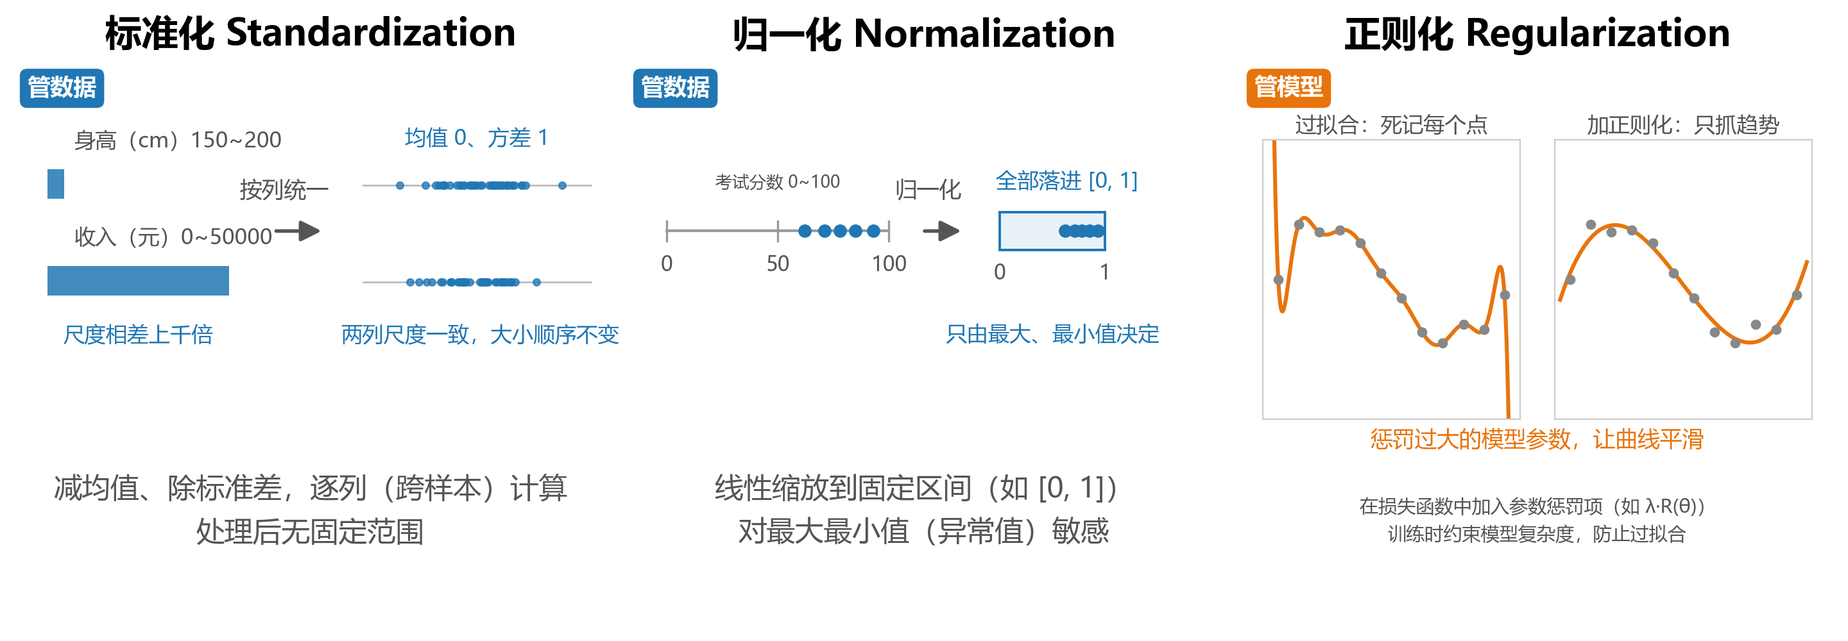
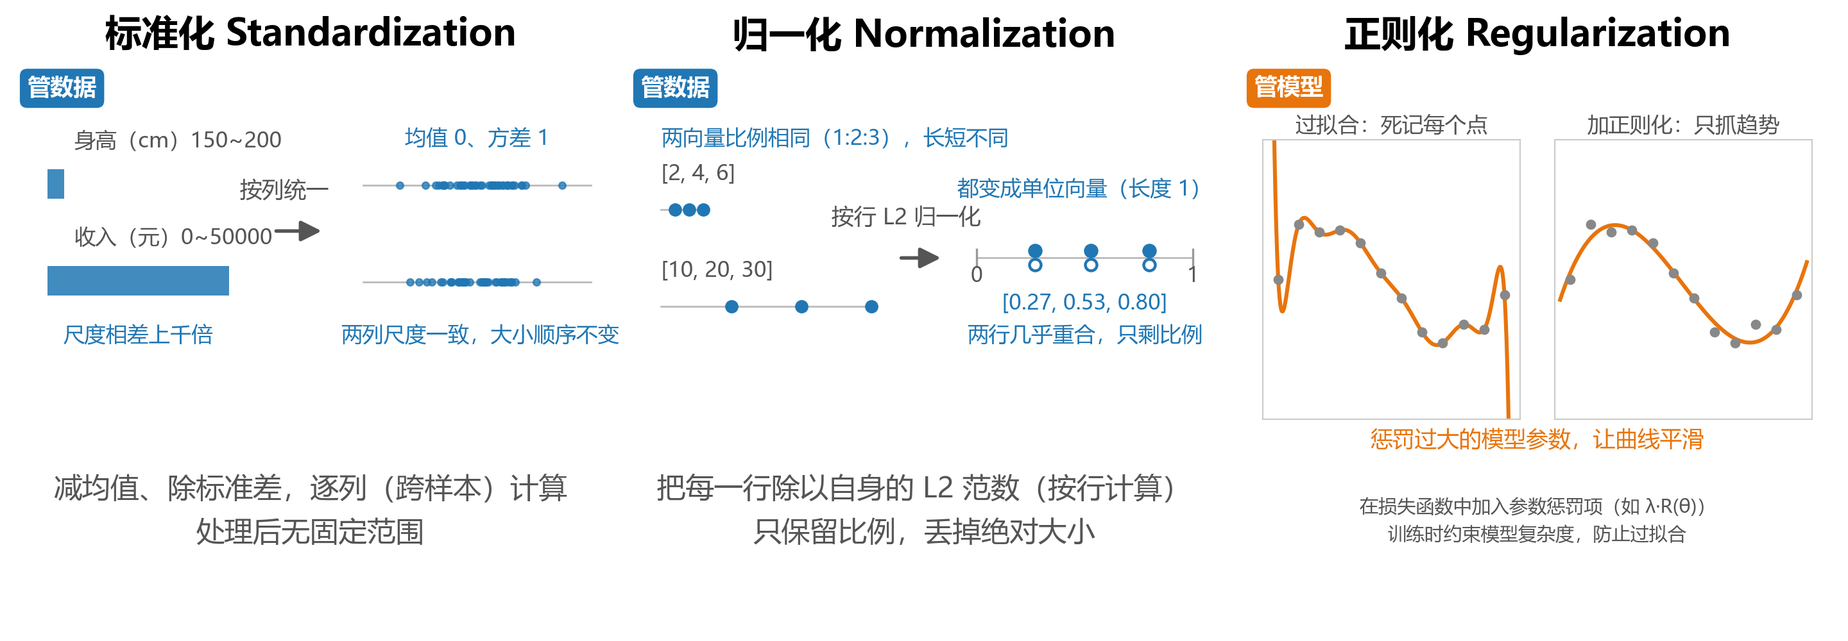
发布第 2 讲学生材料（02-first-workflow）

diff --git a/ml-2026/lessons/02-first-workflow/slides.html b/ml-2026/lessons/02-first-workflow/slides.html
@@ -20,7 +20,7 @@ print(pred[:10])                   # → [1 1 1 1 1 1 1 1 1 1]</code></pre><p><b
     LogisticRegression(
         C=1, max_iter=2000))
 model.fit(X_train, y_train)
-model.score(X_val, y_val)  # 0.9722</code></pre><p class="note"><code>StandardScaler</code> 只按训练集调整每列的中心和尺度，不会把数据变成正态分布。<code>max_iter=2000</code> 是最大迭代次数；参数如何学到将在第 4 章介绍。</p></div><figure class="generated-visual logistic-visual"><img src="assets/logistic-regression-digits-flow-sketch-v1.png" alt="Logistic 回归手写数字示例：训练阶段把 1077 张带标签图片转为 64 个像素特征，标准化后学习十个类别的权重；预测阶段对数字 8 计算 0 到 9 的类别得分并选择最高分，与真实标签比较；验证集 360 个样本中 350 个正确、10 个错误，准确率 97.22%"></figure></div></div></div></section><section class="slide " id="slide-9" aria-label="第9页" hidden><div class="content"><p class="topic">第 2 讲 · 从数据到评估：第一个完整机器学习流程</p><h1>标准化：让特征处在相近的数值尺度</h1><div class="body"><div class="cols"><div><p>一张 8×8 的手写数字包含 64 个像素值。每个固定位置的像素都是一个特征，输入数据共 64 列。</p><p>这些像素都使用 0 至 16 的灰度值，但不同位置的数据分布并不相同。边缘位置通常接近 0，笔画经过的位置变化更明显。</p><p><b>标准化（standardization）</b>根据训练数据分别调整每一列，使不同特征的数值尺度更接近。这样可以减少数值尺度差异对参数更新的影响，使 Logistic 回归的训练过程更稳定。</p></div><div><div class="pixel-demo"><div class="pixel-matrix" role="img" aria-label="由 64 个灰度格组成的 8×8 手写数字 0，第 2 列和第 6 列以不同颜色标出"><span style="--v:0"></span><span class="low-pixel" style="--v:0"></span><span style="--v:5"></span><span style="--v:13"></span><span style="--v:9"></span><span class="broad-pixel" style="--v:1"></span><span style="--v:0"></span><span style="--v:0"></span><span style="--v:0"></span><span style="--v:0"></span><span style="--v:13"></span><span style="--v:15"></span><span style="--v:10"></span><span style="--v:15"></span><span style="--v:5"></span><span style="--v:0"></span><span style="--v:0"></span><span style="--v:3"></span><span style="--v:15"></span><span style="--v:2"></span><span style="--v:0"></span><span style="--v:11"></span><span style="--v:8"></span><span style="--v:0"></span><span style="--v:0"></span><span style="--v:4"></span><span style="--v:12"></span><span style="--v:0"></span><span style="--v:0"></span><span style="--v:8"></span><span style="--v:8"></span><span style="--v:0"></span><span style="--v:0"></span><span style="--v:5"></span><span style="--v:8"></span><span style="--v:0"></span><span style="--v:0"></span><span style="--v:9"></span><span style="--v:8"></span><span style="--v:0"></span><span style="--v:0"></span><span style="--v:4"></span><span style="--v:11"></span><span style="--v:0"></span><span style="--v:1"></span><span style="--v:12"></span><span style="--v:7"></span><span style="--v:0"></span><span style="--v:0"></span><span style="--v:2"></span><span style="--v:14"></span><span style="--v:5"></span><span style="--v:10"></span><span style="--v:12"></span><span style="--v:0"></span><span style="--v:0"></span><span style="--v:0"></span><span style="--v:0"></span><span style="--v:6"></span><span style="--v:13"></span><span style="--v:10"></span><span style="--v:0"></span><span style="--v:0"></span><span style="--v:0"></span></div><div class="scale-compare"><p><b>同一位置跨训练样本组成一列特征</b></p><div class="dist-group"><strong>标准化前（0–16）</strong><div class="feature-dist low"><span>第 2 列</span><div class="dot-track"><i style="--x:3"></i><i style="--x:5"></i><i style="--x:7"></i><i style="--x:9"></i><i style="--x:14"></i></div><small>集中在 0 附近</small></div><div class="feature-dist broad"><span>第 6 列</span><div class="dot-track"><i style="--x:5"></i><i style="--x:25"></i><i style="--x:50"></i><i style="--x:75"></i><i style="--x:95"></i></div><small>变化范围较大</small></div></div><div class="dist-group"><strong>标准化后（共同尺度）</strong><div class="feature-dist low"><span>第 2 列</span><div class="dot-track scaled"><i style="--x:20"></i><i style="--x:35"></i><i style="--x:50"></i><i style="--x:65"></i><i style="--x:80"></i></div><small>中心接近 0</small></div><div class="feature-dist broad"><span>第 6 列</span><div class="dot-track scaled"><i style="--x:18"></i><i style="--x:36"></i><i style="--x:52"></i><i style="--x:68"></i><i style="--x:84"></i></div><small>尺度相近</small></div></div><p class="note">按列分别处理：边缘列几乎总是接近 0，笔画列变化范围大，因此每列用自己的均值和尺度做变换；调整后各列中心和尺度更接近。这些均值和尺度从哪来？下一页展开。</p></div></div></div></div></div></div></section><section class="slide dense dense" id="slide-10" aria-label="第10页" hidden><div class="content"><p class="topic">第 2 讲 · 从数据到评估：第一个完整机器学习流程</p><h1>StandardScaler：拟合与变换</h1><div class="body"><p><code>StandardScaler</code> 分两步工作：</p><div class="flow"><div><b>fit(X_train)</b><p>读取训练集，记录 64 个特征各自的典型数值和变化幅度。</p></div><div><b>transform(...)</b><p>使用已经记录的规则变换训练集、验证集和测试集。</p></div></div><table><thead><tr><th>像素列</th><th>第 2 列</th><th>第 4 列</th><th>第 6 列</th><th>第 8 列</th></tr></thead><tbody><tr><td>均值</td><td>0.31</td><td>11.81</td><td>5.86</td><td>0.13</td></tr><tr><td>缩放尺度</td><td>0.94</td><td>4.23</td><td>5.64</td><td>1.08</td></tr></tbody></table><p>第 2、8 列大多接近白色，第 4、6 列更常经过笔画。<code>StandardScaler</code> 为每一列保存不同的变换参数。训练集决定标准化规则，验证集和测试集只使用这套规则。</p><div class="callout"><b>不做标准化会发生什么？</b><p>不同特征的变化范围相差很大，训练时模型对范围大的特征更敏感，优化器要花更多步数才能找到合适的参数。</p><p>带正则化的 Logistic 回归还会受特征尺度影响：不同尺度的特征上，同样大小的系数代表的影响不同。</p><p>标准化使各列在相近尺度上参与参数优化，有助训练稳定与收敛，但不保证验证准确率一定提高。</p></div></div></div></section><section class="slide dense" id="slide-11" aria-label="第11页" hidden><div class="content"><p class="topic">第 2 讲 · 从数据到评估：第一个完整机器学习流程</p><h1>按列的标准化（Standardization）<br>与按行的归一化（Normalization）</h1><div class="body"><div class="mini-grid"><div><b>StandardScaler：按列（跨样本）</b><p>对每个特征位置，跨所有样本算均值和标准差，该列变成均值 0、方差 1；同一列内谁大谁小的关系不变。适合表格特征：如身高（cm）与收入（元），尺度差异大。</p></div><div><b>Normalizer：按行（样本内）</b><p>对每个样本，把这一行除以自身的长度（L2 范数），变成单位向量（长度为 1）；只保留样本内各特征的相对比例，丢掉绝对大小。适合只关心方向或比例的数据。第 10 章 TF-IDF（文本常用的词频加权）默认就带 L2 归一化，学到那里会再遇到。</p></div></div><table><thead><tr><th>迷你例子（手算可验证）</th><th>两行的共同比例</th><th>按行 L2 归一化后</th></tr></thead><tbody><tr><td>[2, 4, 6]</td><td>1:2:3</td><td>约 [0.27, 0.53, 0.80]</td></tr><tr><td>[10, 20, 30]</td><td>1:2:3</td><td>约 [0.27, 0.53, 0.80]</td></tr></tbody></table><p>两行方向相同，归一化后几乎重合：按行只看方向、不看长度。手写数字用按列标准化：每个像素位置是独立特征，需要统一特征之间的尺度；按行归一化会抹掉每张图的整体亮度，只剩笔画相对深浅。</p><p class="question">🔍 手写数字识别若改用按行归一化，会丢掉什么信息？</p></div></div></section><section class="slide dense" id="slide-12" aria-label="第12页" hidden><div class="content"><p class="topic">第 2 讲 · 从数据到评估：第一个完整机器学习流程</p><h1>名字叫 Normalization，做的是标准化</h1><div class="body"><p><b>Standardization（标准化）</b>通常指减均值、除标准差，得到均值 0、方差 1（本章的 StandardScaler 就是这种）；<b>Normalization（归一化）</b>是更宽泛的说法：把数值调到约定的尺度或范围，比如缩放到固定区间，或按范数缩放。</p><p><b>Batch Norm（批归一化）</b>的名字用了 Normalization，训练时实际操作是“减一小批训练样本（mini-batch）的均值、除它的标准差”，再加可学习的缩放 γ 和平移 β（训练中自动调整的参数）。<b>操作上是标准化</b>，中文译名约定俗成。</p><table><thead><tr><th>都叫归一化，统计轴不同</th><th>跨哪个方向算统计量</th><th>本章类比</th></tr></thead><tbody><tr><td>Batch Norm</td><td>跨样本看同一特征（≈按列）</td><td>像 StandardScaler</td></tr><tr><td>Layer Norm（层归一化）</td><td>同一样本跨特征（≈按行）</td><td>像 Normalizer（用均值方差，不用范数）</td></tr></tbody></table><p class="note">与 StandardScaler 的两点区别：Batch Norm 的均值和标准差训练时按每个 mini-batch 现算，推理时改用训练期间积累的平均统计量（本课不展开），而 StandardScaler 用全训练集一次算好；并且 Batch Norm 带可学习参数 γ、β。记住：看操作，别只看名字。</p><p class="note">再分清第三个易混词：regularization（正则化）管模型：在损失函数里加惩罚项防止过拟合，本章 LogisticRegression 的 C 就是它的强度倒数；normalization／standardization 管数据：统一特征尺度。三个英文都以 -ization 结尾、中文名都以“化”字收尾，最易混；正则化下一页首次登场，第 6 章再系统展开。</p></div></div></section><section class="slide dense" id="slide-13" aria-label="第13页" hidden><div class="content"><span id="lec02-three-izations" class="anchor-def"></span><p class="topic">第 2 讲 · 从数据到评估：第一个完整机器学习流程</p><h1>正则化、归一化、标准化：三个“化”的对比</h1><div class="body"><p>正则化、归一化、标准化：英文都以 <b>-ization</b> 结尾，中文都叫“X 化”，在机器学习里却指三件不同的事。</p><table><thead><tr><th>中文与英文</th><th>目的</th><th>操作对象</th><th>一句话记忆</th></tr></thead><tbody><tr><td>正则化（Regularization）</td><td>防止过拟合（损失函数里加惩罚项）</td><td>模型参数</td><td>“管模型”</td></tr><tr><td>归一化（Normalization）</td><td>把数据缩放到某范围或按范数缩放</td><td>数据</td><td>“管数据”</td></tr><tr><td>标准化（Standardization）</td><td>统一分布，最常用 z-score：减均值、除标准差</td><td>数据</td><td>“管数据”</td></tr></tbody></table><p><b>关键区别一句话：标准化、归一化管数据（图中蓝色），正则化管模型（橙色）。</b></p><figure class="generated-visual"><img src="assets/three-izations-comparison-v1.png" alt="三栏对比图。左栏标准化（管数据）：身高（cm）150~200 与收入（元）0~50000 两把尺度相差上千倍的数轴，按列统一后变成均值 0、方差 1、完全一致的两条点带，大小顺序不变，处理后无固定范围。中栏归一化（管数据）：考试分数 0~100 被线性压缩进 [0,1] 固定区间，结果只由最大、最小值决定，对异常值敏感。右栏正则化（管模型）：同一组散点上，不加约束的曲线扭曲地穿过每个点（过拟合、死记每个点），加正则化后曲线平滑只抓趋势——在损失函数中加入参数惩罚项（如 λ·R(θ)），约束模型复杂度，防止过拟合"></figure></div></div></section><section class="slide dense" id="slide-14" aria-label="第14页" hidden><div class="content"><p class="topic">第 2 讲 · 从数据到评估：第一个完整机器学习流程</p><h1>先划分，再拟合：错误顺序会造成数据泄漏</h1><div class="body"><div class="mini-grid"><div style="border-left:5px solid #a14a22"><b style="color:#a14a22">错误：先在完整数据集上 fit</b><pre><code>scaler.fit(X)   # X 是全部 1797 条
+model.score(X_val, y_val)  # 0.9722</code></pre><p class="note"><code>StandardScaler</code> 只按训练集调整每列的中心和尺度，不会把数据变成正态分布。<code>max_iter=2000</code> 是最大迭代次数；参数如何学到将在第 4 章介绍。</p></div><figure class="generated-visual logistic-visual"><img src="assets/logistic-regression-digits-flow-sketch-v1.png" alt="Logistic 回归手写数字示例：训练阶段把 1077 张带标签图片转为 64 个像素特征，标准化后学习十个类别的权重；预测阶段对数字 8 计算 0 到 9 的类别得分并选择最高分，与真实标签比较；验证集 360 个样本中 350 个正确、10 个错误，准确率 97.22%"></figure></div></div></div></section><section class="slide " id="slide-9" aria-label="第9页" hidden><div class="content"><p class="topic">第 2 讲 · 从数据到评估：第一个完整机器学习流程</p><h1>标准化：让特征处在相近的数值尺度</h1><div class="body"><div class="cols"><div><p>一张 8×8 的手写数字包含 64 个像素值。每个固定位置的像素都是一个特征，输入数据共 64 列。</p><p>这些像素都使用 0 至 16 的灰度值，但不同位置的数据分布并不相同。边缘位置通常接近 0，笔画经过的位置变化更明显。</p><p><b>标准化（standardization）</b>根据训练数据分别调整每一列，使不同特征的数值尺度更接近。这样可以减少数值尺度差异对参数更新的影响，使 Logistic 回归的训练过程更稳定。</p></div><div><div class="pixel-demo"><div class="pixel-matrix" role="img" aria-label="由 64 个灰度格组成的 8×8 手写数字 0，第 2 列和第 6 列以不同颜色标出"><span style="--v:0"></span><span class="low-pixel" style="--v:0"></span><span style="--v:5"></span><span style="--v:13"></span><span style="--v:9"></span><span class="broad-pixel" style="--v:1"></span><span style="--v:0"></span><span style="--v:0"></span><span style="--v:0"></span><span style="--v:0"></span><span style="--v:13"></span><span style="--v:15"></span><span style="--v:10"></span><span style="--v:15"></span><span style="--v:5"></span><span style="--v:0"></span><span style="--v:0"></span><span style="--v:3"></span><span style="--v:15"></span><span style="--v:2"></span><span style="--v:0"></span><span style="--v:11"></span><span style="--v:8"></span><span style="--v:0"></span><span style="--v:0"></span><span style="--v:4"></span><span style="--v:12"></span><span style="--v:0"></span><span style="--v:0"></span><span style="--v:8"></span><span style="--v:8"></span><span style="--v:0"></span><span style="--v:0"></span><span style="--v:5"></span><span style="--v:8"></span><span style="--v:0"></span><span style="--v:0"></span><span style="--v:9"></span><span style="--v:8"></span><span style="--v:0"></span><span style="--v:0"></span><span style="--v:4"></span><span style="--v:11"></span><span style="--v:0"></span><span style="--v:1"></span><span style="--v:12"></span><span style="--v:7"></span><span style="--v:0"></span><span style="--v:0"></span><span style="--v:2"></span><span style="--v:14"></span><span style="--v:5"></span><span style="--v:10"></span><span style="--v:12"></span><span style="--v:0"></span><span style="--v:0"></span><span style="--v:0"></span><span style="--v:0"></span><span style="--v:6"></span><span style="--v:13"></span><span style="--v:10"></span><span style="--v:0"></span><span style="--v:0"></span><span style="--v:0"></span></div><div class="scale-compare"><p><b>同一位置跨训练样本组成一列特征</b></p><div class="dist-group"><strong>标准化前（0–16）</strong><div class="feature-dist low"><span>第 2 列</span><div class="dot-track"><i style="--x:3"></i><i style="--x:5"></i><i style="--x:7"></i><i style="--x:9"></i><i style="--x:14"></i></div><small>集中在 0 附近</small></div><div class="feature-dist broad"><span>第 6 列</span><div class="dot-track"><i style="--x:5"></i><i style="--x:25"></i><i style="--x:50"></i><i style="--x:75"></i><i style="--x:95"></i></div><small>变化范围较大</small></div></div><div class="dist-group"><strong>标准化后（共同尺度）</strong><div class="feature-dist low"><span>第 2 列</span><div class="dot-track scaled"><i style="--x:20"></i><i style="--x:35"></i><i style="--x:50"></i><i style="--x:65"></i><i style="--x:80"></i></div><small>中心接近 0</small></div><div class="feature-dist broad"><span>第 6 列</span><div class="dot-track scaled"><i style="--x:18"></i><i style="--x:36"></i><i style="--x:52"></i><i style="--x:68"></i><i style="--x:84"></i></div><small>尺度相近</small></div></div><p class="note">按列分别处理：边缘列几乎总是接近 0，笔画列变化范围大，因此每列用自己的均值和尺度做变换；调整后各列中心和尺度更接近。这些均值和尺度从哪来？下一页展开。</p></div></div></div></div></div></div></section><section class="slide dense dense" id="slide-10" aria-label="第10页" hidden><div class="content"><p class="topic">第 2 讲 · 从数据到评估：第一个完整机器学习流程</p><h1>StandardScaler：拟合与变换</h1><div class="body"><p><code>StandardScaler</code> 分两步工作：</p><div class="flow"><div><b>fit(X_train)</b><p>读取训练集，记录 64 个特征各自的典型数值和变化幅度。</p></div><div><b>transform(...)</b><p>使用已经记录的规则变换训练集、验证集和测试集。</p></div></div><table><thead><tr><th>像素列</th><th>第 2 列</th><th>第 4 列</th><th>第 6 列</th><th>第 8 列</th></tr></thead><tbody><tr><td>均值</td><td>0.31</td><td>11.81</td><td>5.86</td><td>0.13</td></tr><tr><td>缩放尺度</td><td>0.94</td><td>4.23</td><td>5.64</td><td>1.08</td></tr></tbody></table><p>第 2、8 列大多接近白色，第 4、6 列更常经过笔画。<code>StandardScaler</code> 为每一列保存不同的变换参数。训练集决定标准化规则，验证集和测试集只使用这套规则。</p><div class="callout"><b>不做标准化会发生什么？</b><p>不同特征的变化范围相差很大，训练时模型对范围大的特征更敏感，优化器要花更多步数才能找到合适的参数。</p><p>带正则化的 Logistic 回归还会受特征尺度影响：不同尺度的特征上，同样大小的系数代表的影响不同。</p><p>标准化使各列在相近尺度上参与参数优化，有助训练稳定与收敛，但不保证验证准确率一定提高。</p></div></div></div></section><section class="slide dense" id="slide-11" aria-label="第11页" hidden><div class="content"><p class="topic">第 2 讲 · 从数据到评估：第一个完整机器学习流程</p><h1>按列的标准化（Standardization）<br>与按行的归一化（Normalization）</h1><div class="body"><div class="mini-grid"><div><b>StandardScaler：按列（跨样本）</b><p>对每个特征位置，跨所有样本算均值和标准差，该列变成均值 0、方差 1；同一列内谁大谁小的关系不变。适合表格特征：如身高（cm）与收入（元），尺度差异大。</p></div><div><b>Normalizer：按行（样本内）</b><p>对每个样本，把这一行除以自身的长度（L2 范数），变成单位向量（长度为 1）；只保留样本内各特征的相对比例，丢掉绝对大小。适合只关心方向或比例的数据。第 10 章 TF-IDF（文本常用的词频加权）默认就带 L2 归一化，学到那里会再遇到。</p></div></div><table><thead><tr><th>迷你例子（手算可验证）</th><th>两行的共同比例</th><th>按行 L2 归一化后</th></tr></thead><tbody><tr><td>[2, 4, 6]</td><td>1:2:3</td><td>约 [0.27, 0.53, 0.80]</td></tr><tr><td>[10, 20, 30]</td><td>1:2:3</td><td>约 [0.27, 0.53, 0.80]</td></tr></tbody></table><p>两行方向相同，归一化后几乎重合：按行只看方向、不看长度。手写数字用按列标准化：每个像素位置是独立特征，需要统一特征之间的尺度；按行归一化会抹掉每张图的整体亮度，只剩笔画相对深浅。</p><p class="question">🔍 手写数字识别若改用按行归一化，会丢掉什么信息？</p></div></div></section><section class="slide dense" id="slide-12" aria-label="第12页" hidden><div class="content"><p class="topic">第 2 讲 · 从数据到评估：第一个完整机器学习流程</p><h1>名字叫 Normalization，做的是标准化</h1><div class="body"><p><b>Standardization（标准化）</b>通常指减均值、除标准差，得到均值 0、方差 1（本章的 StandardScaler 就是这种）；<b>Normalization（归一化）</b>是更宽泛的说法：把数值调到约定的尺度或范围，比如缩放到固定区间，或按范数缩放。</p><p><b>Batch Norm（批归一化）</b>的名字用了 Normalization，训练时实际操作是“减一小批训练样本（mini-batch）的均值、除它的标准差”，再加可学习的缩放 γ 和平移 β（训练中自动调整的参数）。<b>操作上是标准化</b>，中文译名约定俗成。</p><table><thead><tr><th>都叫归一化，统计轴不同</th><th>跨哪个方向算统计量</th><th>本章类比</th></tr></thead><tbody><tr><td>Batch Norm</td><td>跨样本看同一特征（≈按列）</td><td>像 StandardScaler</td></tr><tr><td>Layer Norm（层归一化）</td><td>同一样本跨特征（≈按行）</td><td>像 Normalizer（用均值方差，不用范数）</td></tr></tbody></table><p class="note">与 StandardScaler 的两点区别：Batch Norm 的均值和标准差训练时按每个 mini-batch 现算，推理时改用训练期间积累的平均统计量（本课不展开），而 StandardScaler 用全训练集一次算好；并且 Batch Norm 带可学习参数 γ、β。记住：看操作，别只看名字。</p><p class="note">再分清第三个易混词：regularization（正则化）管模型：在损失函数里加惩罚项防止过拟合，本章 LogisticRegression 的 C 就是它的强度倒数；normalization／standardization 管数据：统一特征尺度。三个英文都以 -ization 结尾、中文名都以“化”字收尾，最易混；正则化下一页首次登场，第 6 章再系统展开。</p></div></div></section><section class="slide dense" id="slide-13" aria-label="第13页" hidden><div class="content"><span id="lec02-three-izations" class="anchor-def"></span><p class="topic">第 2 讲 · 从数据到评估：第一个完整机器学习流程</p><h1>正则化、归一化、标准化：三个“化”的对比</h1><div class="body"><p>正则化、归一化、标准化：英文都以 <b>-ization</b> 结尾，中文都叫“X 化”，在机器学习里却指三件不同的事。</p><table><thead><tr><th>中文与英文</th><th>目的</th><th>操作对象</th><th>一句话记忆</th></tr></thead><tbody><tr><td>正则化（Regularization）</td><td>防止过拟合（损失函数里加惩罚项）</td><td>模型参数</td><td>“管模型”</td></tr><tr><td>归一化（Normalization）</td><td>把数据缩放到某范围或按范数缩放</td><td>数据</td><td>“管数据”</td></tr><tr><td>标准化（Standardization）</td><td>统一分布，最常用 z-score：减均值、除标准差</td><td>数据</td><td>“管数据”</td></tr></tbody></table><p><b>关键区别一句话：标准化、归一化管数据（图中蓝色），正则化管模型（橙色）。</b></p><figure class="generated-visual"><img src="assets/three-izations-comparison-v1.png" alt="三栏对比图。左栏标准化（管数据）：身高（cm）150~200 与收入（元）0~50000 两把尺度相差上千倍的数轴，按列统一后变成均值 0、方差 1、完全一致的两条点带，大小顺序不变，处理后无固定范围。中栏归一化（管数据）：[2, 4, 6] 与 [10, 20, 30] 两向量比例相同（1:2:3）、长短不同，按行除以各自的 L2 范数后都变成约 [0.27, 0.53, 0.80] 的单位向量（结果已标注在图上），两行几乎重合，只保留比例、丢掉绝对大小。右栏正则化（管模型）：同一组散点上，不加约束的曲线扭曲地穿过每个点（过拟合、死记每个点），加正则化后曲线平滑只抓趋势——在损失函数中加入参数惩罚项（如 λ·R(θ)），约束模型复杂度，防止过拟合"></figure></div></div></section><section class="slide dense" id="slide-14" aria-label="第14页" hidden><div class="content"><p class="topic">第 2 讲 · 从数据到评估：第一个完整机器学习流程</p><h1>先划分，再拟合：错误顺序会造成数据泄漏</h1><div class="body"><div class="mini-grid"><div style="border-left:5px solid #a14a22"><b style="color:#a14a22">错误：先在完整数据集上 fit</b><pre><code>scaler.fit(X)   # X 是全部 1797 条
 # 之后才划分数据
 # 验证集、测试集的信息已进入缩放参数</code></pre></div><div style="border-left:5px solid #23756c"><b style="color:#23756c">正确：划分后只用训练集</b><pre><code>X_train = X[train_idx]          # 先划分，再取训练集
 scaler = StandardScaler()

diff --git a/ml-2026/lessons/02-first-workflow/notebook.html b/ml-2026/lessons/02-first-workflow/notebook.html
@@ -7814,7 +7814,7 @@ a.anchor-link {
 </div>
 </div>
 </div>
-<div class="jp-Cell jp-MarkdownCell jp-Notebook-cell" id="cell-id=187c347b"><span id="ref-l2-env-check"></span>
+<div class="jp-Cell jp-MarkdownCell jp-Notebook-cell" id="cell-id=187c347b">
 <div class="jp-Cell-inputWrapper" tabindex="0">
 <div class="jp-Collapser jp-InputCollapser jp-Cell-inputCollapser">
 </div>
@@ -7840,6 +7840,7 @@ a.anchor-link {
 <span class="kn">import</span><span class="w"> </span><span class="nn">sklearn</span>
 <span class="kn">import</span><span class="w"> </span><span class="nn">matplotlib</span>
 <span class="kn">import</span><span class="w"> </span><span class="nn">matplotlib.pyplot</span><span class="w"> </span><span class="k">as</span><span class="w"> </span><span class="nn">plt</span>
+
 <span class="n">SEED</span> <span class="o">=</span> <span class="mi">42</span>
 <span class="nb">print</span><span class="p">(</span><span class="s2">"Python"</span><span class="p">,</span> <span class="n">sys</span><span class="o">.</span><span class="n">version</span><span class="o">.</span><span class="n">split</span><span class="p">()[</span><span class="mi">0</span><span class="p">],</span> <span class="s2">"sklearn"</span><span class="p">,</span> <span class="n">sklearn</span><span class="o">.</span><span class="n">__version__</span><span class="p">)</span>
 </pre></div>
@@ -7875,7 +7876,7 @@ a.anchor-link {
 </div>
 </div>
 </div>
-<div class="jp-Cell jp-MarkdownCell jp-Notebook-cell" id="cell-id=b8bea126"><span id="ref-l2-load-digits"></span>
+<div class="jp-Cell jp-MarkdownCell jp-Notebook-cell" id="cell-id=b8bea126">
 <div class="jp-Cell-inputWrapper" tabindex="0">
 <div class="jp-Collapser jp-InputCollapser jp-Cell-inputCollapser">
 </div>
@@ -8000,7 +8001,7 @@ a.anchor-link {
 </div>
 </div>
 </div>
-<div class="jp-Cell jp-MarkdownCell jp-Notebook-cell" id="cell-id=13cc24a2"><span id="ref-l2-split-test"></span>
+<div class="jp-Cell jp-MarkdownCell jp-Notebook-cell" id="cell-id=13cc24a2">
 <div class="jp-Cell-inputWrapper" tabindex="0">
 <div class="jp-Collapser jp-InputCollapser jp-Cell-inputCollapser">
 </div>
@@ -8058,7 +8059,7 @@ a.anchor-link {
 </div>
 </div>
 </div>
-<div class="jp-Cell jp-MarkdownCell jp-Notebook-cell" id="cell-id=56b614c7"><span id="ref-l2-split-dev"></span>
+<div class="jp-Cell jp-MarkdownCell jp-Notebook-cell" id="cell-id=56b614c7">
 <div class="jp-Cell-inputWrapper" tabindex="0">
 <div class="jp-Collapser jp-InputCollapser jp-Cell-inputCollapser">
 </div>
@@ -8116,7 +8117,7 @@ a.anchor-link {
 </div>
 </div>
 </div>
-<div class="jp-Cell jp-MarkdownCell jp-Notebook-cell" id="cell-id=1caa7df6"><span id="ref-l2-assert"></span>
+<div class="jp-Cell jp-MarkdownCell jp-Notebook-cell" id="cell-id=1caa7df6">
 <div class="jp-Cell-inputWrapper" tabindex="0">
 <div class="jp-Collapser jp-InputCollapser jp-Cell-inputCollapser">
 </div>
@@ -8174,7 +8175,7 @@ a.anchor-link {
 </div>
 </div>
 </div>
-<div class="jp-Cell jp-MarkdownCell jp-Notebook-cell" id="cell-id=968dc7ae"><span id="ref-l2-baseline"></span>
+<div class="jp-Cell jp-MarkdownCell jp-Notebook-cell" id="cell-id=968dc7ae">
 <div class="jp-Cell-inputWrapper" tabindex="0">
 <div class="jp-Collapser jp-InputCollapser jp-Cell-inputCollapser">
 </div>
@@ -8343,7 +8344,7 @@ a.anchor-link {
 </div>
 </div>
 </div>
-<div class="jp-Cell jp-MarkdownCell jp-Notebook-cell" id="cell-id=766e84a9"><span id="ref-l2-accuracy-baseline"></span>
+<div class="jp-Cell jp-MarkdownCell jp-Notebook-cell" id="cell-id=766e84a9">
 <div class="jp-Cell-inputWrapper" tabindex="0">
 <div class="jp-Collapser jp-InputCollapser jp-Cell-inputCollapser">
 </div>
@@ -8400,7 +8401,7 @@ a.anchor-link {
 </div>
 </div>
 </div>
-<div class="jp-Cell jp-MarkdownCell jp-Notebook-cell" id="cell-id=a8827a36"><span id="ref-l2-scaler-fit"></span>
+<div class="jp-Cell jp-MarkdownCell jp-Notebook-cell" id="cell-id=a8827a36">
 <div class="jp-Cell-inputWrapper" tabindex="0">
 <div class="jp-Collapser jp-InputCollapser jp-Cell-inputCollapser">
 </div>
@@ -8459,7 +8460,7 @@ a.anchor-link {
 </div>
 </div>
 </div>
-<div class="jp-Cell jp-MarkdownCell jp-Notebook-cell" id="cell-id=5dba4283"><span id="ref-l2-scaler-transform"></span>
+<div class="jp-Cell jp-MarkdownCell jp-Notebook-cell" id="cell-id=5dba4283">
 <div class="jp-Cell-inputWrapper" tabindex="0">
 <div class="jp-Collapser jp-InputCollapser jp-Cell-inputCollapser">
 </div>
@@ -8693,7 +8694,7 @@ a.anchor-link {
 </div>
 </div>
 </div>
-<div class="jp-Cell jp-MarkdownCell jp-Notebook-cell" id="cell-id=e43f9e22"><span id="ref-l2-candidates-loop"></span>
+<div class="jp-Cell jp-MarkdownCell jp-Notebook-cell" id="cell-id=e43f9e22">
 <div class="jp-Cell-inputWrapper" tabindex="0">
 <div class="jp-Collapser jp-InputCollapser jp-Cell-inputCollapser">
 </div>
@@ -8757,7 +8758,7 @@ C=10 train=1.0000 validation=0.9694
 </div>
 </div>
 </div>
-<div class="jp-Cell jp-MarkdownCell jp-Notebook-cell" id="cell-id=e2100096"><span id="ref-l2-freeze-rule"></span>
+<div class="jp-Cell jp-MarkdownCell jp-Notebook-cell" id="cell-id=e2100096">
 <div class="jp-Cell-inputWrapper" tabindex="0">
 <div class="jp-Collapser jp-InputCollapser jp-Cell-inputCollapser">
 </div>
@@ -8812,7 +8813,7 @@ C=10 train=1.0000 validation=0.9694
 </div>
 </div>
 </div>
-<div class="jp-Cell jp-MarkdownCell jp-Notebook-cell" id="cell-id=0823ab7e"><span id="ref-l2-final-model"></span>
+<div class="jp-Cell jp-MarkdownCell jp-Notebook-cell" id="cell-id=0823ab7e">
 <div class="jp-Cell-inputWrapper" tabindex="0">
 <div class="jp-Collapser jp-InputCollapser jp-Cell-inputCollapser">
 </div>
@@ -8872,13 +8873,20 @@ C=10 train=1.0000 validation=0.9694
 </div>
 </div>
 </div>
-<div class="jp-Cell jp-MarkdownCell jp-Notebook-cell" id="cell-id=ad890a6a"><span id="ref-l2-final-test"></span>
+<div class="jp-Cell jp-MarkdownCell jp-Notebook-cell" id="cell-id=ad890a6a">
 <div class="jp-Cell-inputWrapper" tabindex="0">
 <div class="jp-Collapser jp-InputCollapser jp-Cell-inputCollapser">
 </div>
 <div class="jp-InputArea jp-Cell-inputArea"><div class="jp-InputPrompt jp-InputArea-prompt">
 </div><div class="jp-RenderedHTMLCommon jp-RenderedMarkdown jp-MarkdownOutput" data-mime-type="text/markdown">
 <h2 id="%E6%AD%A5%E9%AA%A419%EF%BD%9C%E6%9C%80%E5%90%8E%E4%B8%80%E6%AC%A1%E6%8A%A5%E5%91%8A%E6%B5%8B%E8%AF%95%E6%88%90%E7%BB%A9">步骤19｜最后一次报告测试成绩<a class="anchor-link" href="#%E6%AD%A5%E9%AA%A419%EF%BD%9C%E6%9C%80%E5%90%8E%E4%B8%80%E6%AC%A1%E6%8A%A5%E5%91%8A%E6%B5%8B%E8%AF%95%E6%88%90%E7%BB%A9">¶</a></h2><p>Macro-F1先对每类计算F1再等权平均；与按样本计数的准确率关注点不同。</p>
+<p><strong>F1：查准率与查全率的调和平均</strong>（针对某一个类别计算）</p>
+<p>$$\text{Precision}=\frac{TP}{TP+FP}\qquad \text{Recall}=\frac{TP}{TP+FN}$$</p>
+<p>$$F_1=2\cdot\frac{\text{Precision}\times\text{Recall}}{\text{Precision}+\text{Recall}}=\frac{2\,TP}{2\,TP+FP+FN}$$</p>
+<p>对该类而言：TP＝判对；FP＝别的类被误判进来（误报，只伤查准率）；FN＝该类被漏判出去（漏报，只伤查全率）。调和平均被较小的值主导：查准、查全都高，F1 才高，「偏科」拿不到分。</p>
+<p><strong>Macro-F1：K 个类等权平均</strong></p>
+<p>$$\text{Macro-F1}=\frac{1}{K}\sum_{k=1}^{K}F_1^{(k)}$$</p>
+<p>每类不论样本多少各占 1/K 一票：某个小类全错时 macro-F1 明显下降，准确率却几乎不动——准确率按样本计数，大类别说了算。本例两者几乎相等（0.9722 对 0.9719），说明错误没有集中在某一个类上。</p>
 <p><strong>先想一想：</strong> 重复运行固定方案与根据测试结果改方案有什么区别？</p>
 <!-- [ref:l2-final-test] -->
 </div>
@@ -8914,7 +8922,7 @@ C=10 train=1.0000 validation=0.9694
 <pre>测试准确率： 0.9722222222222222
 测试宏平均F1： 0.9719402197048348
 测试基线： 0.1
-本机重训秒数： 0.007186082977568731
+本机重训秒数： 0.007539249956607819
 </pre>
 </div>
 </div>
@@ -8993,7 +9001,7 @@ C=10 train=1.0000 validation=0.9694
 </div>
 </div>
 </div>
-<div class="jp-Cell jp-MarkdownCell jp-Notebook-cell" id="cell-id=bcd87e5b"><span id="ref-l2-wrong-count"></span>
+<div class="jp-Cell jp-MarkdownCell jp-Notebook-cell" id="cell-id=bcd87e5b">
 <div class="jp-Cell-inputWrapper" tabindex="0">
 <div class="jp-Collapser jp-InputCollapser jp-Cell-inputCollapser">
 </div>
@@ -9075,7 +9083,7 @@ C=10 train=1.0000 validation=0.9694
 </div>
 </div>
 </div>
-<div class="jp-Cell jp-MarkdownCell jp-Notebook-cell" id="cell-id=ddd6c2ff"><span id="ref-l2-fig-digits-grid"></span>
+<div class="jp-Cell jp-MarkdownCell jp-Notebook-cell" id="cell-id=ddd6c2ff">
 <div class="jp-Cell-inputWrapper" tabindex="0">
 <div class="jp-Collapser jp-InputCollapser jp-Cell-inputCollapser">
 </div>
@@ -9130,7 +9138,7 @@ C=10 train=1.0000 validation=0.9694
 <div class="jp-InputPrompt jp-InputArea-prompt">In [23]:</div>
 <div class="jp-CodeMirrorEditor jp-Editor jp-InputArea-editor" data-type="inline">
 <div class="cm-editor cm-s-jupyter">
-<div class="highlight hl-ipython3"><pre><span></span><span class="c1"><span id="ref-l2-fig-accuracy"></span></span>
+<div class="highlight hl-ipython3"><pre><span></span><span class="c1"># [ref:l2-fig-class-count]</span>
 <span class="c1"># 图2：全集 1797 条的类别计数柱状图（np.bincount 确定性统计）</span>
 <span class="n">counts</span> <span class="o">=</span> <span class="n">np</span><span class="o">.</span><span class="n">bincount</span><span class="p">(</span><span class="n">y</span><span class="p">)</span>
 <span class="n">fig</span><span class="p">,</span> <span class="n">ax</span> <span class="o">=</span> <span class="n">plt</span><span class="o">.</span><span class="n">subplots</span><span class="p">(</span><span class="n">figsize</span><span class="o">=</span><span class="p">(</span><span class="mi">7</span><span class="p">,</span> <span class="mi">3</span><span class="p">))</span>
@@ -9214,7 +9222,7 @@ C=10 train=1.0000 validation=0.9694
 <div class="jp-InputPrompt jp-InputArea-prompt">In [25]:</div>
 <div class="jp-CodeMirrorEditor jp-Editor jp-InputArea-editor" data-type="inline">
 <div class="cm-editor cm-s-jupyter">
-<div class="highlight hl-ipython3"><pre><span></span><span class="c1"><span id="ref-l2-fig-class-count"></span></span>
+<div class="highlight hl-ipython3"><pre><span></span><span class="c1"># [ref:l2-fig-accuracy]</span>
 <span class="c1"># 图4：基线与 Logistic 回归的准确率对比（数值硬编码，取自步骤9/16/19已执行输出）</span>
 <span class="n">reported</span> <span class="o">=</span> <span class="p">[</span>
     <span class="p">(</span><span class="s2">"Dummy val"</span><span class="p">,</span> <span class="mi">37</span><span class="p">,</span> <span class="mi">360</span><span class="p">),</span>           <span class="c1"># 步骤9：37/360，手算 0.1028</span>

diff --git a/ml-2026/lessons/02-first-workflow/assets/three-izations-comparison-v1.py b/ml-2026/lessons/02-first-workflow/assets/three-izations-comparison-v1.py
@@ -66,29 +66,32 @@ setup(ax)
 tag(ax, "管数据", BLUE)
 ax.set_title("归一化 Normalization", fontsize=20.5, weight="bold", pad=10)
 
-# 前：0~100 的分数数轴
-x0, x1 = 0.6, 4.4
-ax.plot([x0, x1], [6.9, 6.9], color="#999999", lw=1.5)
-scores = np.array([62, 71, 78, 85, 93])
-ax.scatter(x0 + scores / 100 * (x1 - x0), np.full(5, 6.9), s=42, color=BLUE, zorder=3)
-for t, lab in [(0, "0"), (50, "50"), (100, "100")]:
-    xt = x0 + t / 100 * (x1 - x0)
-    ax.plot([xt, xt], [6.72, 7.08], color="#999999", lw=1.2)
-    ax.text(xt, 6.15, lab, fontsize=11.5, color=GRAY, ha="center")
-ax.text(2.5, 7.7, "考试分数 0~100", fontsize=9.5, color=GRAY, ha="center")
+# 前：比例相同（1:2:3）、长短不同的两行
+s = 0.12
+for vals, lab, y in [([2, 4, 6], "[2, 4, 6]", 7.3), ([10, 20, 30], "[10, 20, 30]", 5.5)]:
+    ax.plot([0.5, 0.5 + vals[-1] * s], [y, y], color="#bbbbbb", lw=1)
+    ax.scatter(0.5 + np.array(vals) * s, np.full(len(vals), y), s=42, color=BLUE, zorder=3)
+    ax.text(0.5, y + 0.55, lab, fontsize=12, color=GRAY, ha="left")
+ax.text(0.5, 8.5, "两向量比例相同（1:2:3），长短不同", fontsize=12, color=BLUE, ha="left")
 
-arrow(ax, 4.95, 5.7, 6.9, "归一化")
+arrow(ax, 4.55, 5.35, 6.4, "按行 L2 归一化")
 
-# 后：同样的分数被压进 [0,1] 的小框
-bx0, bx1 = 6.3, 8.1
-ax.add_patch(Rectangle((bx0, 6.55), bx1 - bx0, 0.7, fc="#e8f1f8", ec=BLUE, lw=1.4))
-ax.scatter(bx0 + scores / 100 * (bx1 - bx0), np.full(5, 6.9), s=42, color=BLUE, zorder=3)
-ax.text(bx0, 6.0, "0", fontsize=11.5, color=GRAY, ha="center")
-ax.text(bx1, 6.0, "1", fontsize=11.5, color=GRAY, ha="center")
-ax.text(7.45, 7.7, "全部落进 [0, 1]", fontsize=12, color=BLUE, ha="center")
-ax.text(7.2, 4.85, "只由最大、最小值决定", fontsize=12, color=BLUE, ha="center")
+# 后：各除以自身 L2 范数，两行几乎重合
+rx0, rx1 = 5.9, 9.6
+unit = np.array([0.27, 0.53, 0.80])
+ax.plot([rx0, rx1], [6.4, 6.4], color="#bbbbbb", lw=1)
+for dy, fc in [(0.13, BLUE), (-0.13, "white")]:
+    ax.scatter(rx0 + unit * (rx1 - rx0), np.full(3, 6.4 + dy), s=42,
+               facecolors=fc, edgecolors=BLUE, linewidths=1.6, zorder=3)
+for t, lab in [(0, "0"), (1, "1")]:
+    xt = rx0 + t * (rx1 - rx0)
+    ax.plot([xt, xt], [6.24, 6.56], color="#999999", lw=1.2)
+    ax.text(xt, 5.95, lab, fontsize=11.5, color=GRAY, ha="center")
+ax.text((rx0 + rx1) / 2, 5.45, "[0.27, 0.53, 0.80]", fontsize=12, color=BLUE, ha="center")
+ax.text(7.75, 7.55, "都变成单位向量（长度 1）", fontsize=12, color=BLUE, ha="center")
+ax.text(7.75, 4.85, "两行几乎重合，只剩比例", fontsize=12, color=BLUE, ha="center")
 
-ax.text(5, 1.15, "线性缩放到固定区间（如 [0, 1]）\n对最大最小值（异常值）敏感", fontsize=16,
+ax.text(5, 1.15, "把每一行除以自身的 L2 范数（按行计算）\n只保留比例，丢掉绝对大小", fontsize=16,
         color=GRAY, ha="center", linespacing=1.6)
 
 # ---------- 第三栏：正则化 ----------
